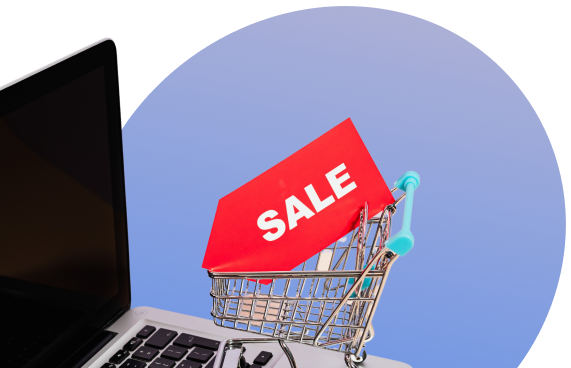
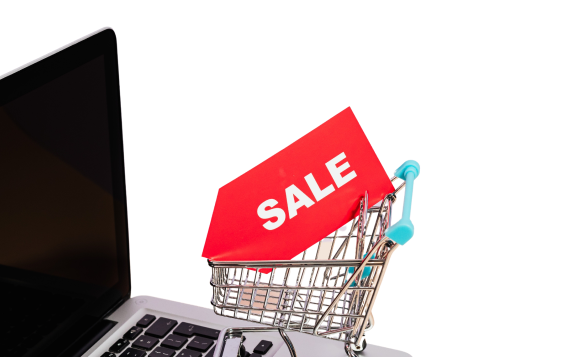
asdasd

diff --git a/css/common.css b/css/common.css
@@ -4388,7 +4388,6 @@ body.mob-menu-show {
     width: 49%;
     max-width: 570px;
     position: relative;
-    background: url(../images/subscribe/subscribe-img-1.png) no-repeat right bottom;
     border-radius: 10px 0 0 10px; }
     .subscribe-img:after {
       content: "";
@@ -4406,10 +4405,26 @@ body.mob-menu-show {
     font-size: 14px;
     line-height: 20px;
     color: rgba(0, 0, 0, 0.9); }
+  .subscribe-bgr {
+    position: absolute;
+    top: 0;
+    right: 20px;
+    width: calc(100% - 20px);
+    height: 100%;
+    background: url(../images/subscribe/subscribe-bgr-1.png) no-repeat right -120px;
+    border-radius: 10px 0 0 10px; }
+  .subscribe-pic {
+    position: absolute;
+    top: 0;
+    left: 0;
+    width: 100%;
+    height: 100%;
+    background: url(../images/subscribe/subscribe-img-1.png) no-repeat right bottom;
+    border-radius: 10px 0 0 10px; }
   .subscribe-decor {
     position: absolute;
     bottom: 56px;
-    right: 144px;
+    right: 154px;
     width: 234px;
     height: 199px;
     background: url(../images/subscribe/subscribe-img-2.png) no-repeat 0 0; }
@@ -4458,8 +4473,14 @@ body.mob-menu-show {
       min-height: 224px; }
       .subscribe-img {
         width: 44%;
-        max-width: 447px;
-        background-image: url(../images/subscribe/subscribe-img-3.png); }
+        max-width: 447px; }
+      .subscribe-pic {
+        background-image: url(../images/subscribe/subscribe-img-3.png);
+        background-position: left bottom; }
+      .subscribe-bgr {
+        right: 0;
+        width: 100%;
+        background-position: right -32px; }
       .subscribe-detail {
         width: 56%;
         padding: 17px 20px; }
@@ -4481,10 +4502,15 @@ body.mob-menu-show {
         padding-bottom: 8px; }
       .subscribe-img {
         width: 100%;
-        min-height: 190px;
-        border-radius: 0 0 10px 10px;
+        min-height: 190px; }
+      .subscribe-bgr {
+        background-position: right 13px; }
+      .subscribe-pic {
         background-image: url(../images/subscribe/subscribe-img-4.png);
-        background-position: left bottom; }
+        background-position: left bottom;
+        border-radius: 0 0 10px 10px; }
+      .subscribe-decor {
+        display: none; }
       .subscribe-list {
         float: none;
         margin-top: 21px;

diff --git a/scss/main.scss b/scss/main.scss
@@ -1469,7 +1469,6 @@
         width: 49%;
         max-width: 570px;
         position: relative;
-        background: url(../images/subscribe/subscribe-img-1.png) no-repeat right bottom;
         border-radius: 10px 0 0 10px;
         @include clearfix();
     }
@@ -1487,10 +1486,28 @@
         line-height: 20px;
         color: rgba(0, 0, 0, 0.9);
     }
+    &-bgr {
+        position: absolute;
+        top: 0;
+        right: 20px;
+        width: calc(100% - 20px);
+        height: 100%;
+        background: url(../images/subscribe/subscribe-bgr-1.png) no-repeat right -120px;
+        border-radius: 10px 0 0 10px;
+    }
+    &-pic {
+        position: absolute;
+        top: 0;
+        left: 0;
+        width: 100%;
+        height: 100%;
+        background: url(../images/subscribe/subscribe-img-1.png) no-repeat right bottom;
+        border-radius: 10px 0 0 10px;
+    }
     &-decor {
         position: absolute;
         bottom: 56px;
-        right: 144px;
+        right: 154px;
         width: 234px;
         height: 199px;
         background: url(../images/subscribe/subscribe-img-2.png) no-repeat 0 0;
@@ -1554,7 +1571,15 @@
         &-img {
             width: 44%;
             max-width: 447px;
+        }
+        &-pic {
             background-image: url(../images/subscribe/subscribe-img-3.png);
+            background-position: left bottom;
+        }
+        &-bgr {
+            right: 0;
+            width: 100%;
+            background-position: right -32px;
         }
         &-detail {
             width: 56%;
@@ -1583,9 +1608,17 @@
         &-img {
             width: 100%;
             min-height: 190px;
-            border-radius: 0 0 10px 10px;
+        }
+        &-bgr {
+            background-position: right 13px;
+        }
+        &-pic {
             background-image: url(../images/subscribe/subscribe-img-4.png);
             background-position: left bottom;
+            border-radius: 0 0 10px 10px;
+        }
+        &-decor {
+            display: none;
         }
         &-list {
             float: none;

diff --git a/index.html b/index.html
@@ -2394,6 +2394,8 @@
 
             <div class="subscribe">
                 <div class="subscribe-img">
+                    <div class="subscribe-bgr"></div>
+                    <div class="subscribe-pic"></div>
                     <div class="subscribe-decor"></div>
                     <ul class="subscribe-list">
                         <li class="subscribe-list-item">
